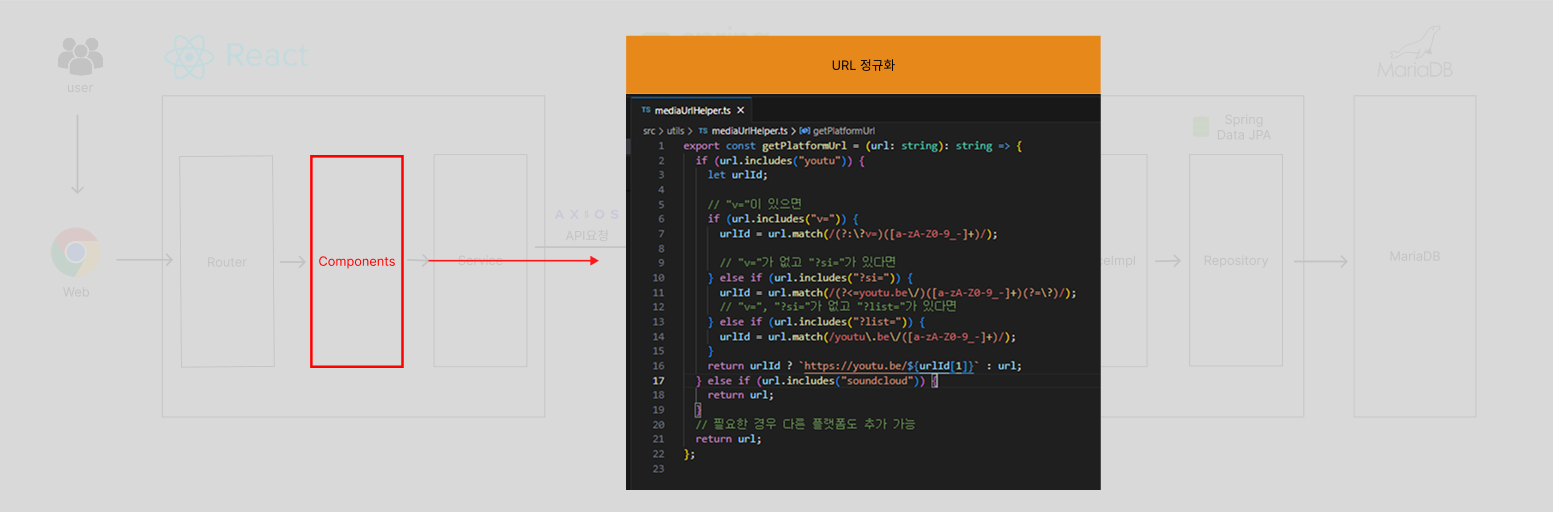
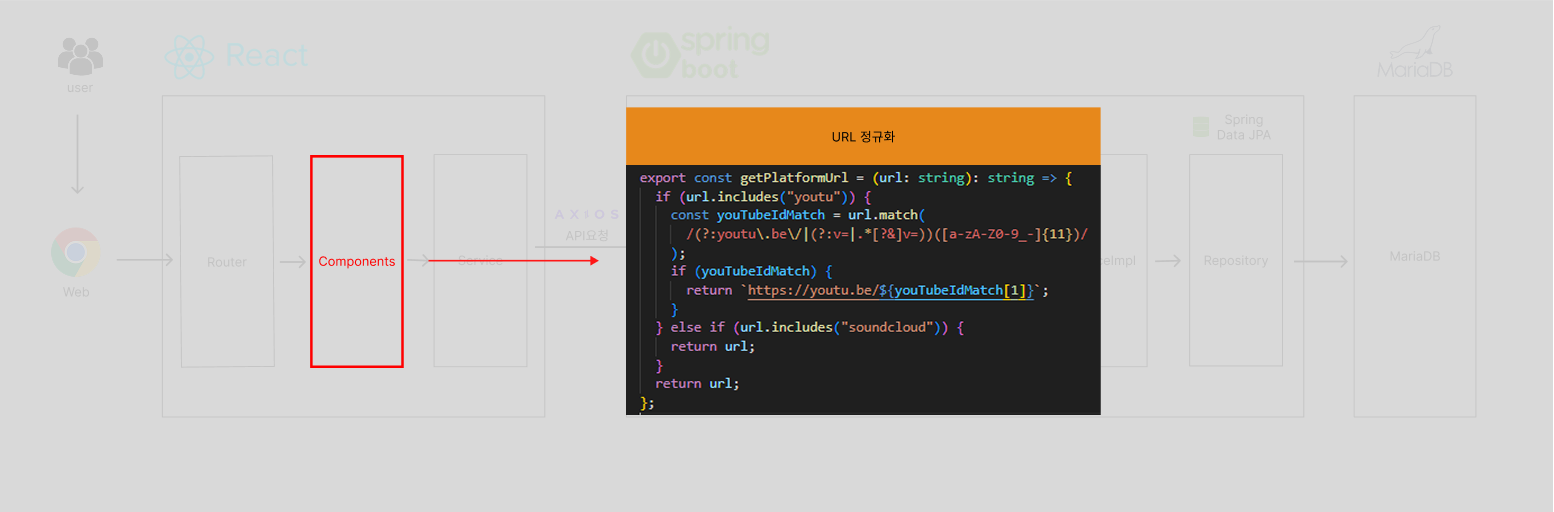
정규화 코드 변경

Changed region(s): [[0.4015, 0.0625, 0.7104, 0.4688], [0.4015, 0.5, 0.7104, 0.9688]]

diff --git a/front/src/views/TestView2/index.tsx b/front/src/views/TestView2/index.tsx
@@ -56,66 +56,98 @@ const TestView2 = () => {
   const handleDragOver = (e: React.DragEvent<HTMLDivElement>) => {
     e.preventDefault(); // 기본 동작 방지
   };
-  // // =====================================================
-  // // 먼저 isValidJWT 함수를 선언합니다.
-  // const isValidJWT = (token: string | null) => {
-  //   return token && token.split(".").length === 3;
-  // };
 
-  // const [cookies, removeCookie, deleteCookie] = useCookies();
+  const [videoUrl, setVideoUrl] = useState<string>("");
+  const [afterVideoUrl, setAfterVideoUrl] = useState<string>("");
+  //      event handler: url input값 변경      //
+  const handleInputChange = (event: React.ChangeEvent<HTMLInputElement>) => {
+    setVideoUrl(event.target.value);
+  };
 
-  // const checkTokenExpiration = (token: string) => {
-  //   if (!token || !isValidJWT(token)) {
-  //     console.error("올바르지 않은 JWT 형식의 토큰입니다.");
-  //     return false;
-  //   }
+  const getPlatformUrl = (url: string): string => {
+    // 유튜브 URL에서 ID 추출하는 정규식
+    const youTubeIdMatch = url.match(
+      /(?:youtu\.be\/|(?:v=|.*[?&]v=))([a-zA-Z0-9_-]{11})/
+    );
 
-  //   try {
-  //     const decoded: { exp: number } = jwtDecode(token); // cookies.accessToken 대신 파라미터 token 사용
-  //     return decoded.exp > Math.floor(Date.now() / 1000);
-  //   } catch (error) {
-  //     console.error("유효하지 않은 토큰입니다.", error);
-  //     return false;
-  //   }
-  // };
+    if (youTubeIdMatch) {
+      return `https://youtu.be/${youTubeIdMatch[1]}`;
+    } else if (url.includes("soundcloud")) {
+      return url;
+    }
 
-  // // 예제
-  // const isValid = checkTokenExpiration(cookies.accessToken);
+    // 필요한 경우 다른 플랫폼도 추가 가능
+    return url;
+  };
 
-  // console.log("토큰 유효 여부:", isValid ? "유효함" : "만료됨");
-  // console.log("토큰 유효 여부:", isValid);
+  //      function: 검색 url 변수 할당 함수    //
+  const videoSearch = () => {
+    console.log("정규식 이전 : ", videoUrl);
 
-  // // =====================================================
+    const testValue = getPlatformUrl(videoUrl);
+    setAfterVideoUrl(testValue);
+  };
+
+  const testBTN = () => {
+    console.log("정규식 이후 : ", afterVideoUrl);
+  };
   return (
-    <div style={{ width: "400px", margin: "0 auto" }}>
-      <h2>Playlist</h2>
-      <div>
-        {playlist.map((item, index) => (
-          <div
-            className="testDiv1"
-            key={item.id}
-            draggable
-            onDragStart={() => handleDragStart(index)}
-            onDragEnter={() => handleDragEnter(index)}
-            onDragEnd={handleDragEnd}
-            onDragOver={handleDragOver} // y축 제한 추가
-            style={{
-              backgroundColor:
-                draggedIndex === index
-                  ? "rgb(0, 0, 0)" // 드래그 중 배경색
-                  : hoveredIndex !== null && hoveredIndex === index // hoveredIndex가 null이 아닌 경우만 비교
-                  ? "#a71919" // 드래그 중인 아이템이 다른 아이템 위로 들어갔을 때 배경색
-                  : "#fff", // 기본 배경색
-            }}
-          >
-            <div>
-              <strong>{item.title}</strong>
-              <p style={{ margin: 0 }}>{item.description}</p>
+    <>
+      <div style={{ width: "400px", margin: "0 auto" }}>
+        <h2>Playlist</h2>
+        <div>
+          {playlist.map((item, index) => (
+            <div
+              className="testDiv1"
+              key={item.id}
+              draggable
+              onDragStart={() => handleDragStart(index)}
+              onDragEnter={() => handleDragEnter(index)}
+              onDragEnd={handleDragEnd}
+              onDragOver={handleDragOver} // y축 제한 추가
+              style={{
+                backgroundColor:
+                  draggedIndex === index
+                    ? "rgb(0, 0, 0)" // 드래그 중 배경색
+                    : hoveredIndex !== null && hoveredIndex === index // hoveredIndex가 null이 아닌 경우만 비교
+                    ? "#a71919" // 드래그 중인 아이템이 다른 아이템 위로 들어갔을 때 배경색
+                    : "#fff", // 기본 배경색
+              }}
+            >
+              <div>
+                <strong>{item.title}</strong>
+                <p style={{ margin: 0 }}>{item.description}</p>
+              </div>
+            </div>
+          ))}
+        </div>
+      </div>
+
+      <div className={styles["main-wrap"]}>
+        <div className={styles["main-wrap-top"]}>
+          <div className={styles["main-wrap-top-content"]}>
+            <div className={styles["main-center"]}>
+              <div className={styles["main-search-box"]}>
+                <input
+                  className={styles["main-search-input"]}
+                  type="text"
+                  placeholder="Please enter the URL."
+                  value={videoUrl}
+                  onChange={handleInputChange}
+                />
+                <div className={"main-search-btn"} onClick={videoSearch}></div>
+              </div>
+
+              <div className={"main-title-box"} onClick={testBTN}>
+                To get started, please enter the URL of the video you'd like to
+                play. This will allow us to retrieve and display the video's
+                information so you can begin listening.
+              </div>
             </div>
           </div>
-        ))}
+        </div>
       </div>
-    </div>
+    </>
   );
 };
 

diff --git a/front/src/utils/mediaUrlHelper.ts b/front/src/utils/mediaUrlHelper.ts
@@ -1,22 +1,13 @@
 export const getPlatformUrl = (url: string): string => {
   if (url.includes("youtu")) {
-    let urlId;
-
-    // "v="이 있으면
-    if (url.includes("v=")) {
-      urlId = url.match(/(?:\?v=)([a-zA-Z0-9_-]+)/);
-
-      // "v="가 없고 "?si="가 있다면
-    } else if (url.includes("?si=")) {
-      urlId = url.match(/(?<=youtu.be\/)([a-zA-Z0-9_-]+)(?=\?)/);
-      // "v=", "?si="가 없고 "?list="가 있다면
-    } else if (url.includes("?list=")) {
-      urlId = url.match(/youtu\.be\/([a-zA-Z0-9_-]+)/);
+    const youTubeIdMatch = url.match(
+      /(?:youtu\.be\/|(?:v=|.*[?&]v=))([a-zA-Z0-9_-]{11})/
+    );
+    if (youTubeIdMatch) {
+      return `https://youtu.be/${youTubeIdMatch[1]}`;
     }
-    return urlId ? `https://youtu.be/${urlId[1]}` : url;
   } else if (url.includes("soundcloud")) {
     return url;
   }
-  // 필요한 경우 다른 플랫폼도 추가 가능
   return url;
 };

diff --git a/front/src/layouts/PlayBar/index.tsx b/front/src/layouts/PlayBar/index.tsx
@@ -37,9 +37,6 @@ const PlayBar = () => {
 
   //      event handler: 재생, 일시정지 이벤트 처리 함수       //
   const handlePlayPause = () => {
-    if (!nowPlayingPlaylist.length) {
-      return;
-    }
     if (isLoading === false) {
       setIsPlaying(!isPlaying);
     }
@@ -364,7 +361,7 @@ const PlayBar = () => {
   );
 
   const testBtn = () => {
-    console.log("cookies.accessToken : ", cookies.accessToken);
+    console.log("isPlaying : ", isPlaying);
   };
 
   return (

diff --git a/front/src/views/TestView2/testStyle.css b/front/src/views/TestView2/testStyle.css
@@ -7,3 +7,9 @@
   border-radius: 5px;
   transition: all 0.2s ease;
 }
+
+.main-search-btn {
+  background-color: wheat;
+  height: 50px;
+  width: 50px;
+}

diff --git a/front/src/views/TestView2/style.module.css b/front/src/views/TestView2/style.module.css
@@ -1,3 +1,7 @@
 /* .dragging {
   color: transparent; 
 } */
+
+.main-search-btn {
+  background-color: wheat;
+}
